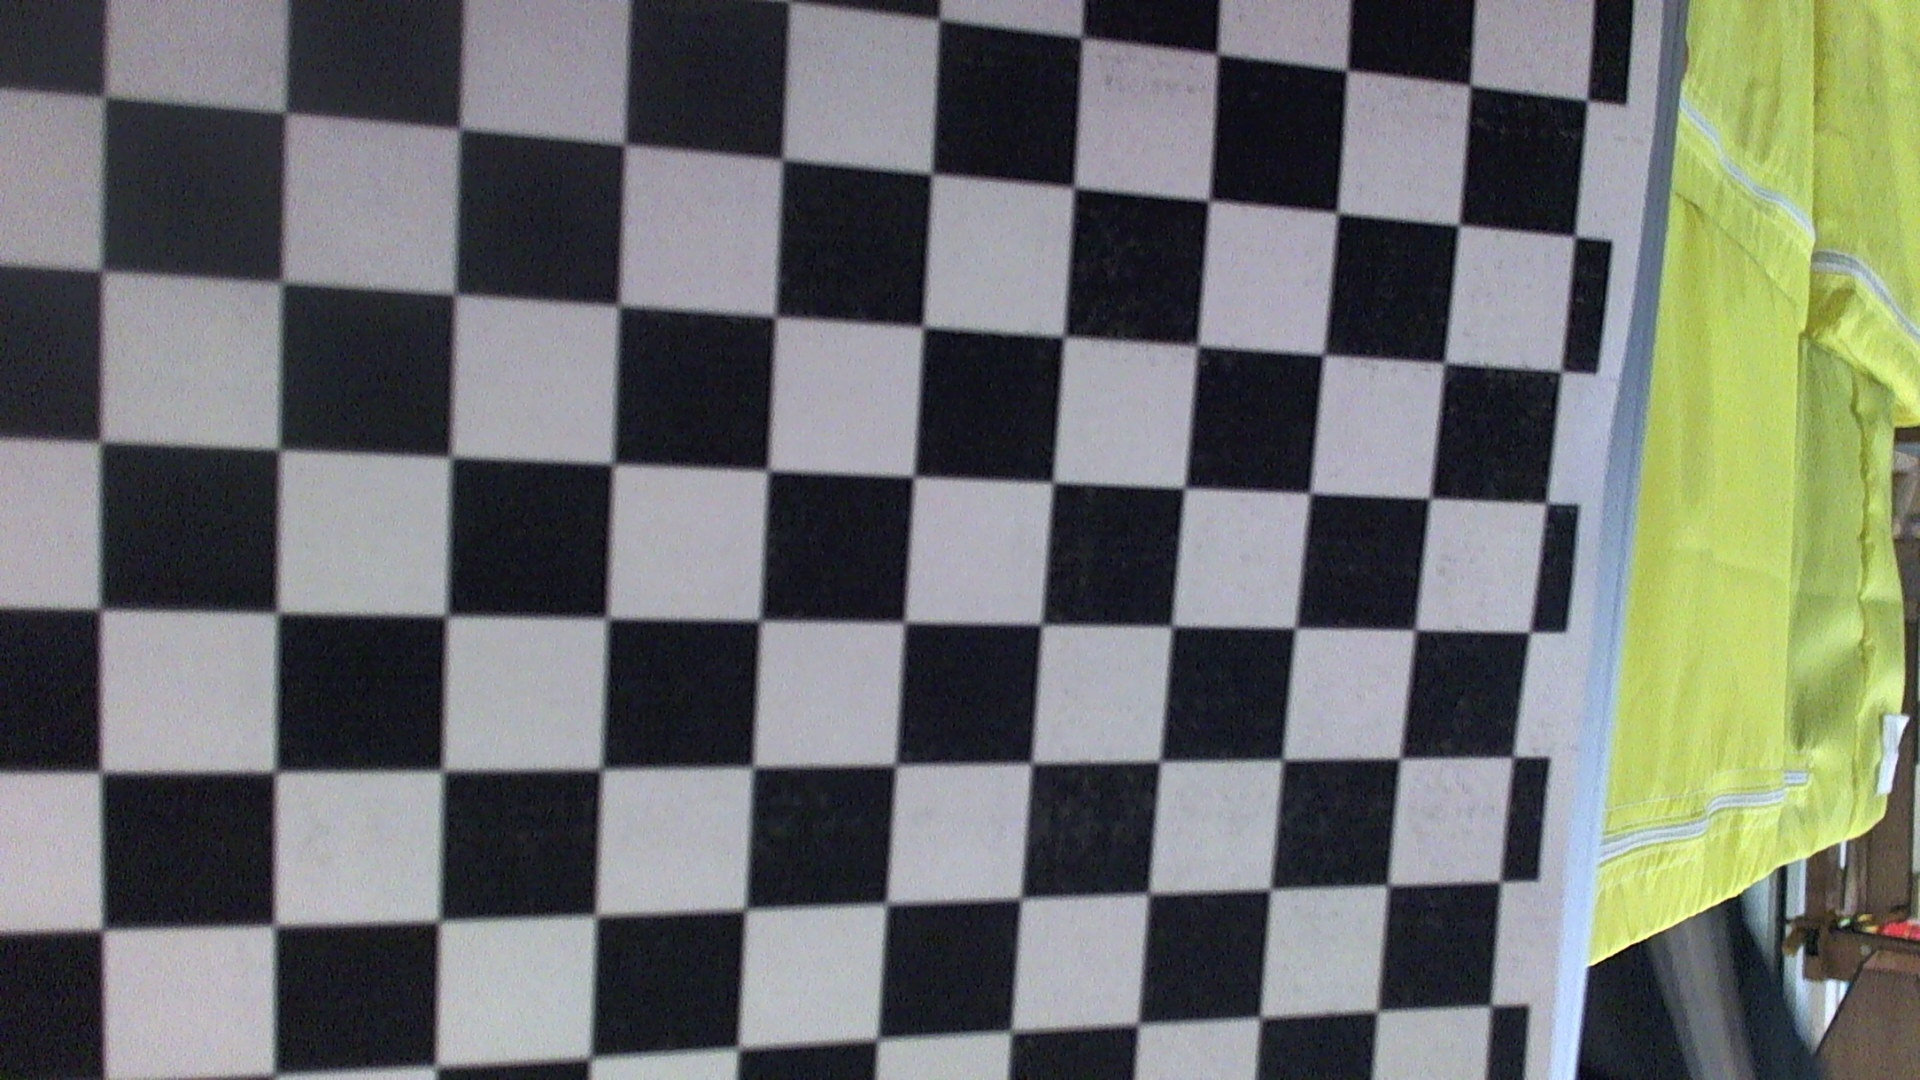
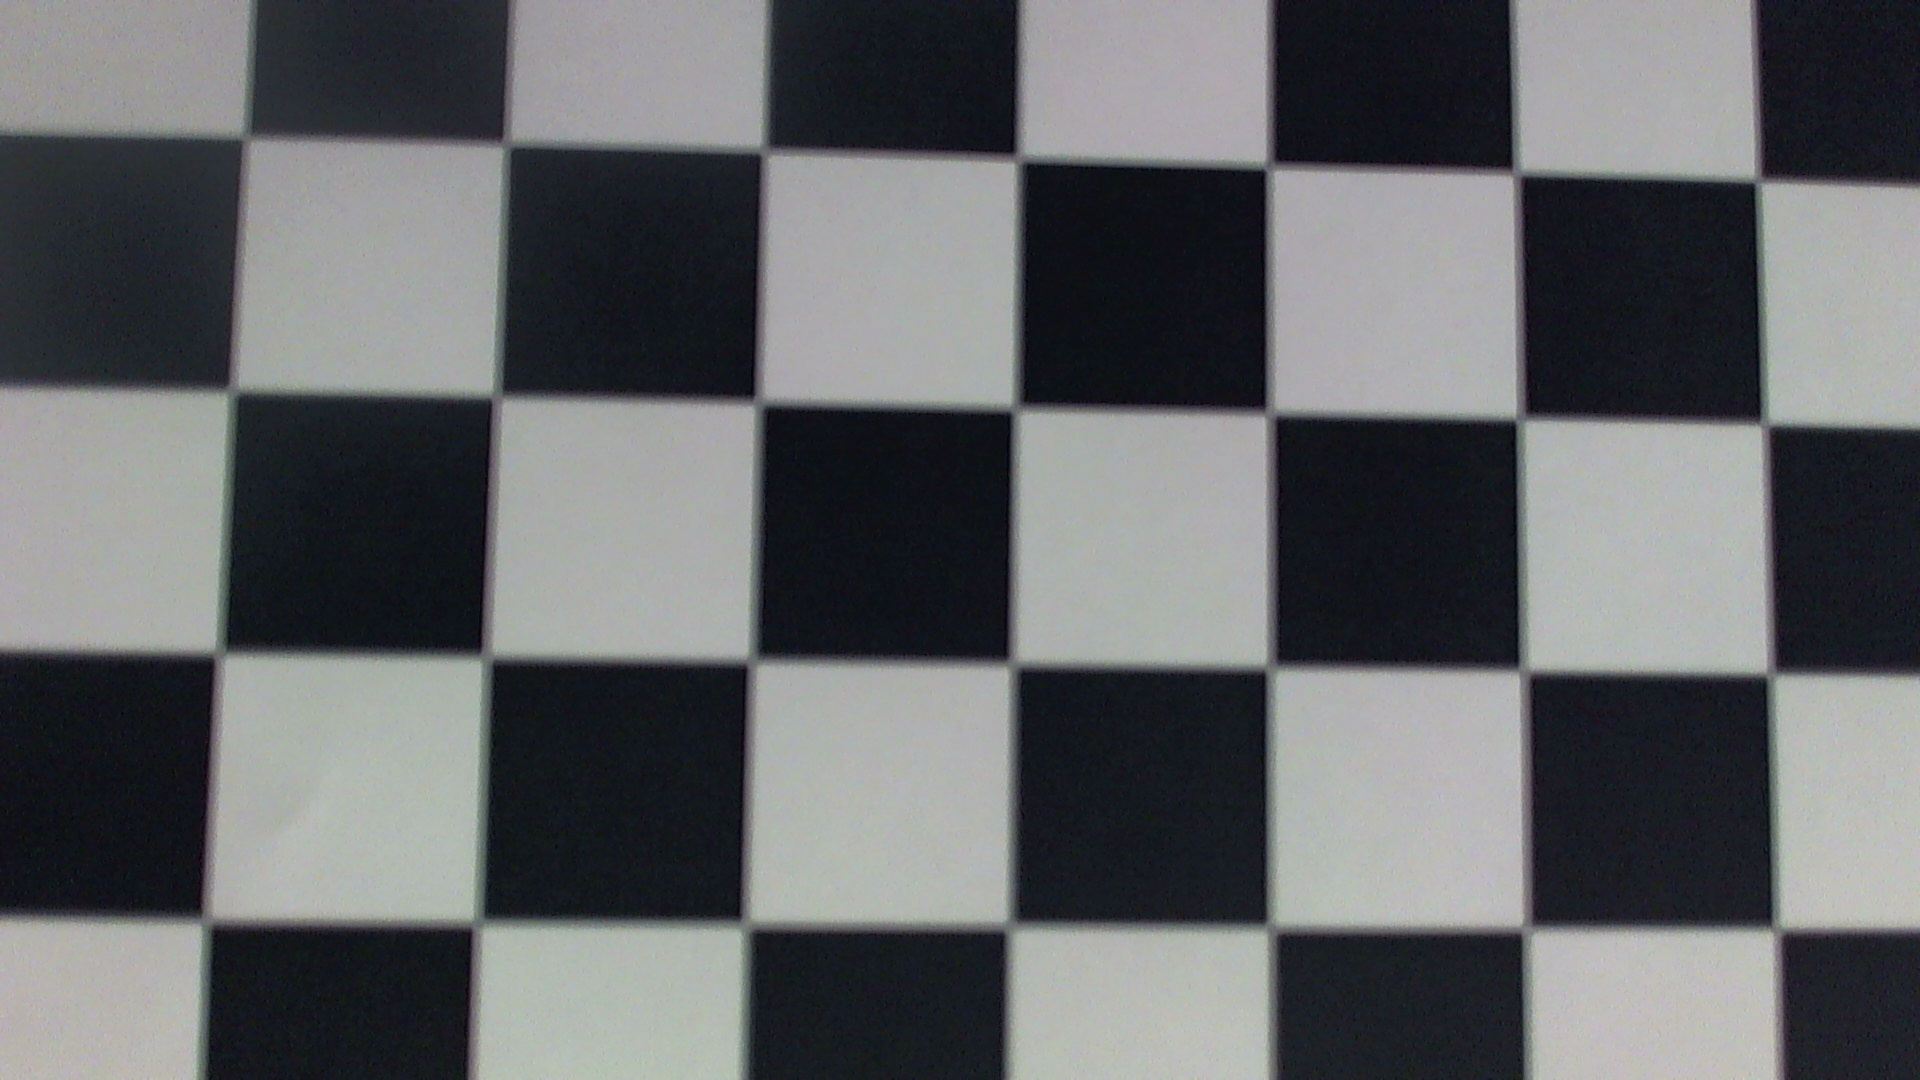
undistort.py works

diff --git a/python-vision/undistort.py b/python-vision/undistort.py
@@ -1,52 +1,64 @@
 import numpy as np
 import cv2
+import sys
 
-# termination criteria
-criteria = (cv2.TERM_CRITERIA_EPS + cv2.TERM_CRITERIA_MAX_ITER, 30, 0.001)
-cbrow = 6
-cbcol = 10
+def undistort(cbrow=sys.argv[1], cbcol=sys.argv[2], fileName=sys.argv[3]): # number of black corners in row and column on chessboard picture
+    # termination criteria
+    criteria = (cv2.TERM_CRITERIA_EPS + cv2.TERM_CRITERIA_MAX_ITER, 30, 0.001)
+    cbrow = int(cbrow)
+    cbcol = int(cbcol)
+    print(cbrow,cbcol)
 
-# prepare object points, like (0,0,0), (1,0,0), (2,0,0) ....,(6,5,0)
-objp = np.zeros((cbrow*cbcol,3), np.float32)
-objp[:,:2] = np.mgrid[0:cbcol,0:cbrow].T.reshape(-1,2)
+    # prepare object points, like (0,0,0), (1,0,0), (2,0,0) ....,(6,5,0)
+    objp = np.zeros((cbrow*cbcol,3), np.float32)
+    objp[:,:2] = np.mgrid[0:cbcol,0:cbrow].T.reshape(-1,2)
 
-# Arrays to store object points and image points from all the images.
-objpoints = [] # 3d point in real world space
-imgpoints = [] # 2d points in image plane.
-#images = ["/Users/niksure/Downloads/perfect_checkerboard.png"]
-fname = "/Users/niksure/Documents/workspace/2018-Field/python-vision/TestImages/TEST0.jpg"
-img = cv2.imread(fname)
-gray = cv2.cvtColor(img,cv2.COLOR_BGR2GRAY)
+    # Arrays to store object points and image points from all the images.
+    objpoints = [] # 3d point in real world space
+    imgpoints = [] # 2d points in image plane.
 
-# Find the chess board corners
-ret, corners = cv2.findChessboardCorners(gray,(cbrow,cbcol),None)
-print ret
-cv2.imshow("img",img)
-cv2.waitKey(500)
+    fname = fileName #"/Users/niksure/Documents/workspace/2018-Field/python-vision/TestImages/TEST0.jpg"
+    img = cv2.imread(fname)
+    gray = cv2.cvtColor(img,cv2.COLOR_BGR2GRAY)
 
-# If found, add object points, image points (after refining them)
-if ret == True:
-    objpoints.append(objp)
-
-    corners2 = cv2.cornerSubPix(gray,corners,(11,11),(-1,-1),criteria)
-    imgpoints.append(corners2)
-
-    # Draw and display the corners
-    img = cv2.drawChessboardCorners(img, (7,7), corners2,ret)
-    cv2.imshow('img',img)
+    # Find the chess board corners
+    ret, corners = cv2.findChessboardCorners(gray,(cbrow,cbcol),None)
+    print ret
+    cv2.imshow("img",img)
     cv2.waitKey(500)
 
-ret, mtx, dist, rvecs, tvecs = cv2.calibrateCamera(objpoints, imgpoints, gray.shape[::-1],None,None)
-h,  w = img.shape[:2]
-newcameramtx, roi=cv2.getOptimalNewCameraMatrix(mtx,dist,(w,h),1,(w,h))
+    # If found, add object points, image points (after refining them)
+    if ret == True:
+        objpoints.append(objp)
 
-# undistort
-dst = cv2.undistort(img, mtx, dist, None, newcameramtx)
+        corners2 = cv2.cornerSubPix(gray,corners,(11,11),(-1,-1),criteria)
+        imgpoints.append(corners2)
 
-# crop the image
-x,y,w,h = roi
-dst = dst[y:y+h, x:x+w]
-cv2.imwrite('calibresult.png',dst)
+        # Draw and display the corners
+        img = cv2.drawChessboardCorners(img, (7,7), corners2,ret)
+        cv2.imshow('img',img)
+        cv2.waitKey(500)
 
+    ret, mtx, dist, rvecs, tvecs = cv2.calibrateCamera(objpoints, imgpoints, gray.shape[::-1],None,None)
+    dist = np.array([-0.13615181, 0.53005398, 0, 0, 0]) # no translation
+    h,  w = img.shape[:2]
+    newcameramtx, roi=cv2.getOptimalNewCameraMatrix(mtx,dist,(w,h),1,(w,h))
 
-#cv2.destroyAllWindows()
+    # # undistort
+    # dst = cv2.undistort(img, mtx, dist, None, newcameramtx)
+
+    # # crop the image
+    # x,y,w,h = roi
+    # dst = dst[y:y+h, x:x+w]
+    # cv2.imwrite('calibresult.png',dst)
+    # undistort
+    mapx,mapy = cv2.initUndistortRectifyMap(mtx,dist,None,newcameramtx,(w,h),5)
+    dst = cv2.remap(img,mapx,mapy,cv2.INTER_LINEAR)
+    print(dst)
+
+    # crop the image
+    x,y,w,h = roi
+    dst = dst[y:y+h, x:x+w]
+    cv2.imwrite('calibresult.png',dst)
+
+undistort()

diff --git a/python-vision/testPhoto.py b/python-vision/testPhoto.py
@@ -24,6 +24,10 @@ def dc():
 		oc()
 
 def oc():
+	try:
+		image = WebCam.getImage()
+	except Exception as e:
+		print(e)
 	image = WebCam.getImage()
 	contours = GripRunner.run(image)
 	Printing.drawContours(image, contours)

diff --git a/python-vision/test.py b/python-vision/test.py
@@ -1,0 +1,5 @@
+import cv2
+camera = cv2.VideoCapture(1)
+retval, image = camera.read()
+cv2.imshow("img", image)
+cv2.waitKey(0)
